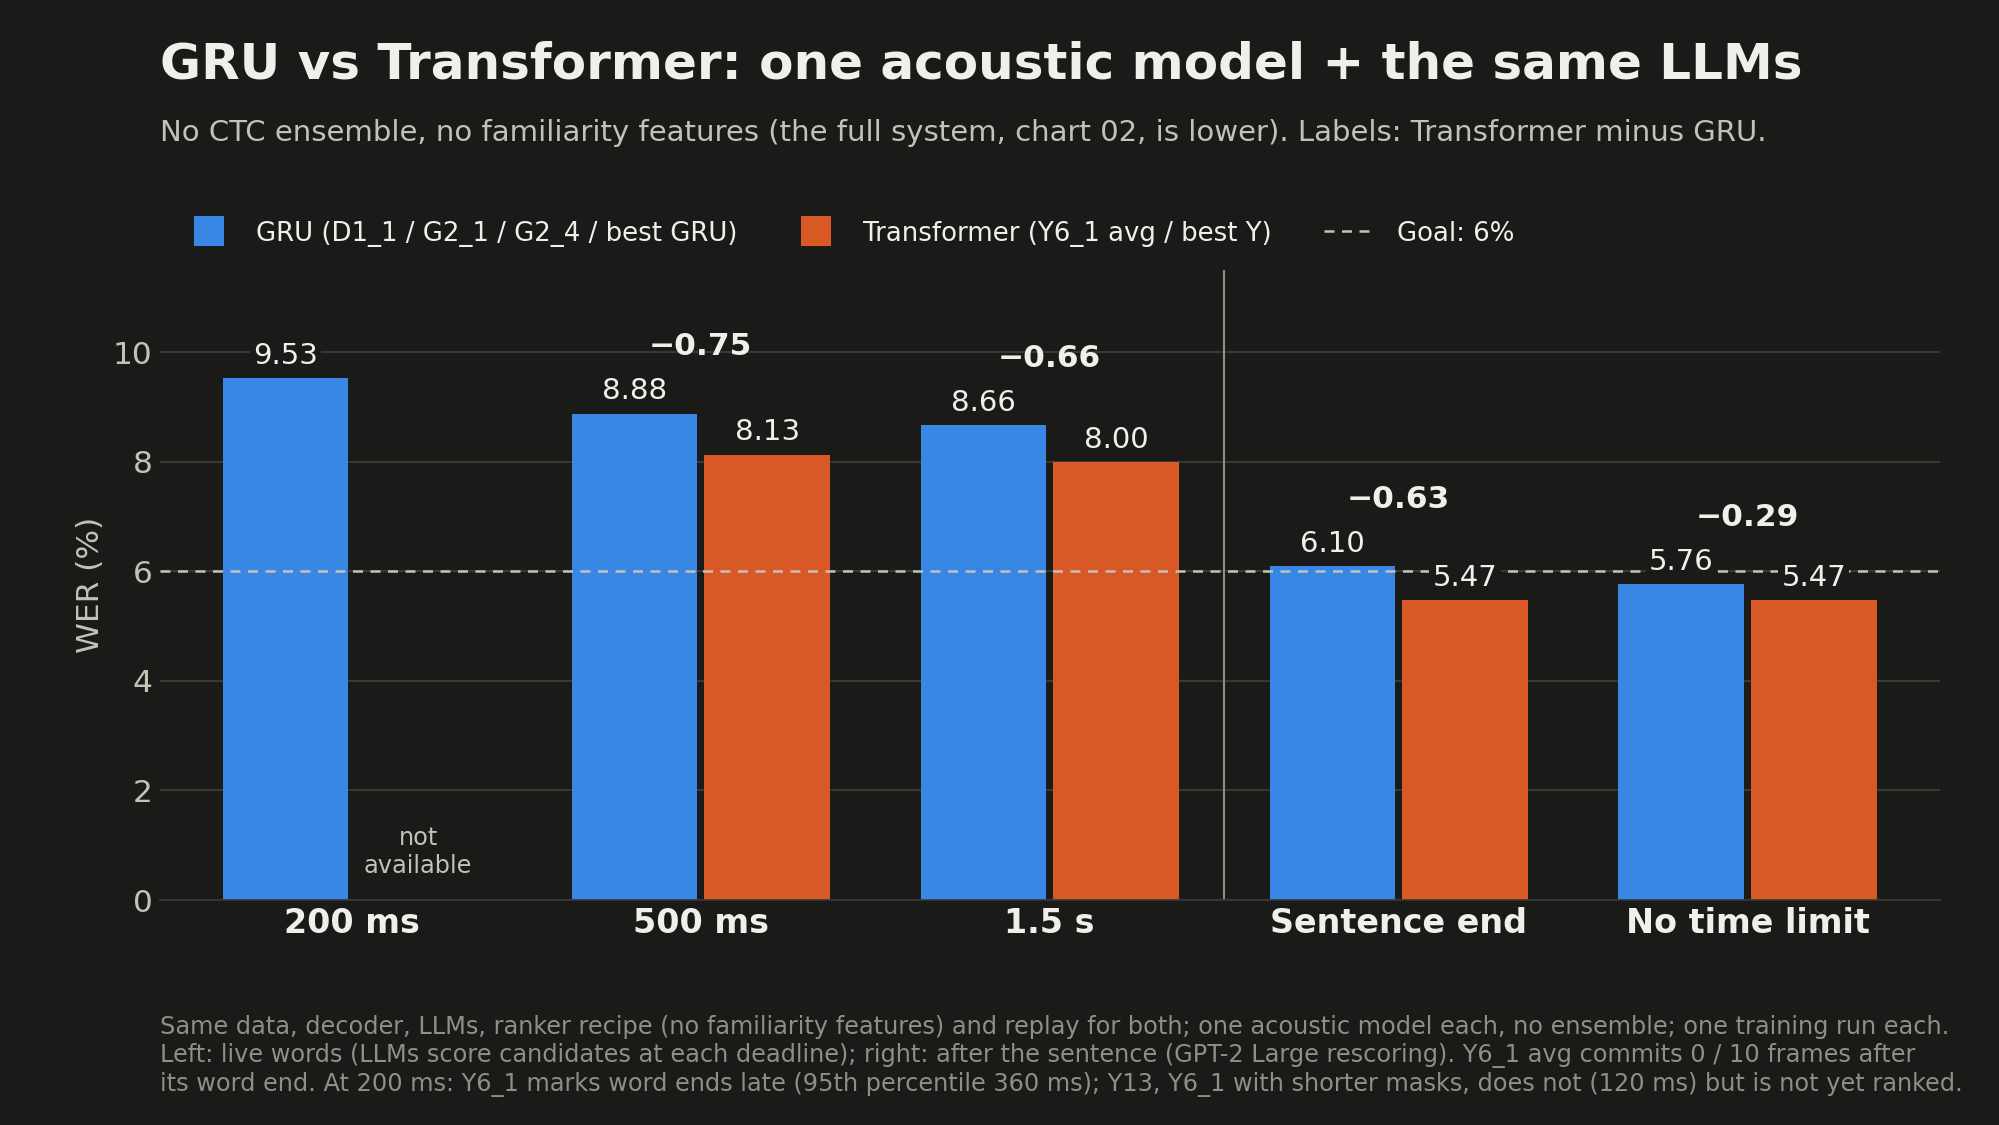
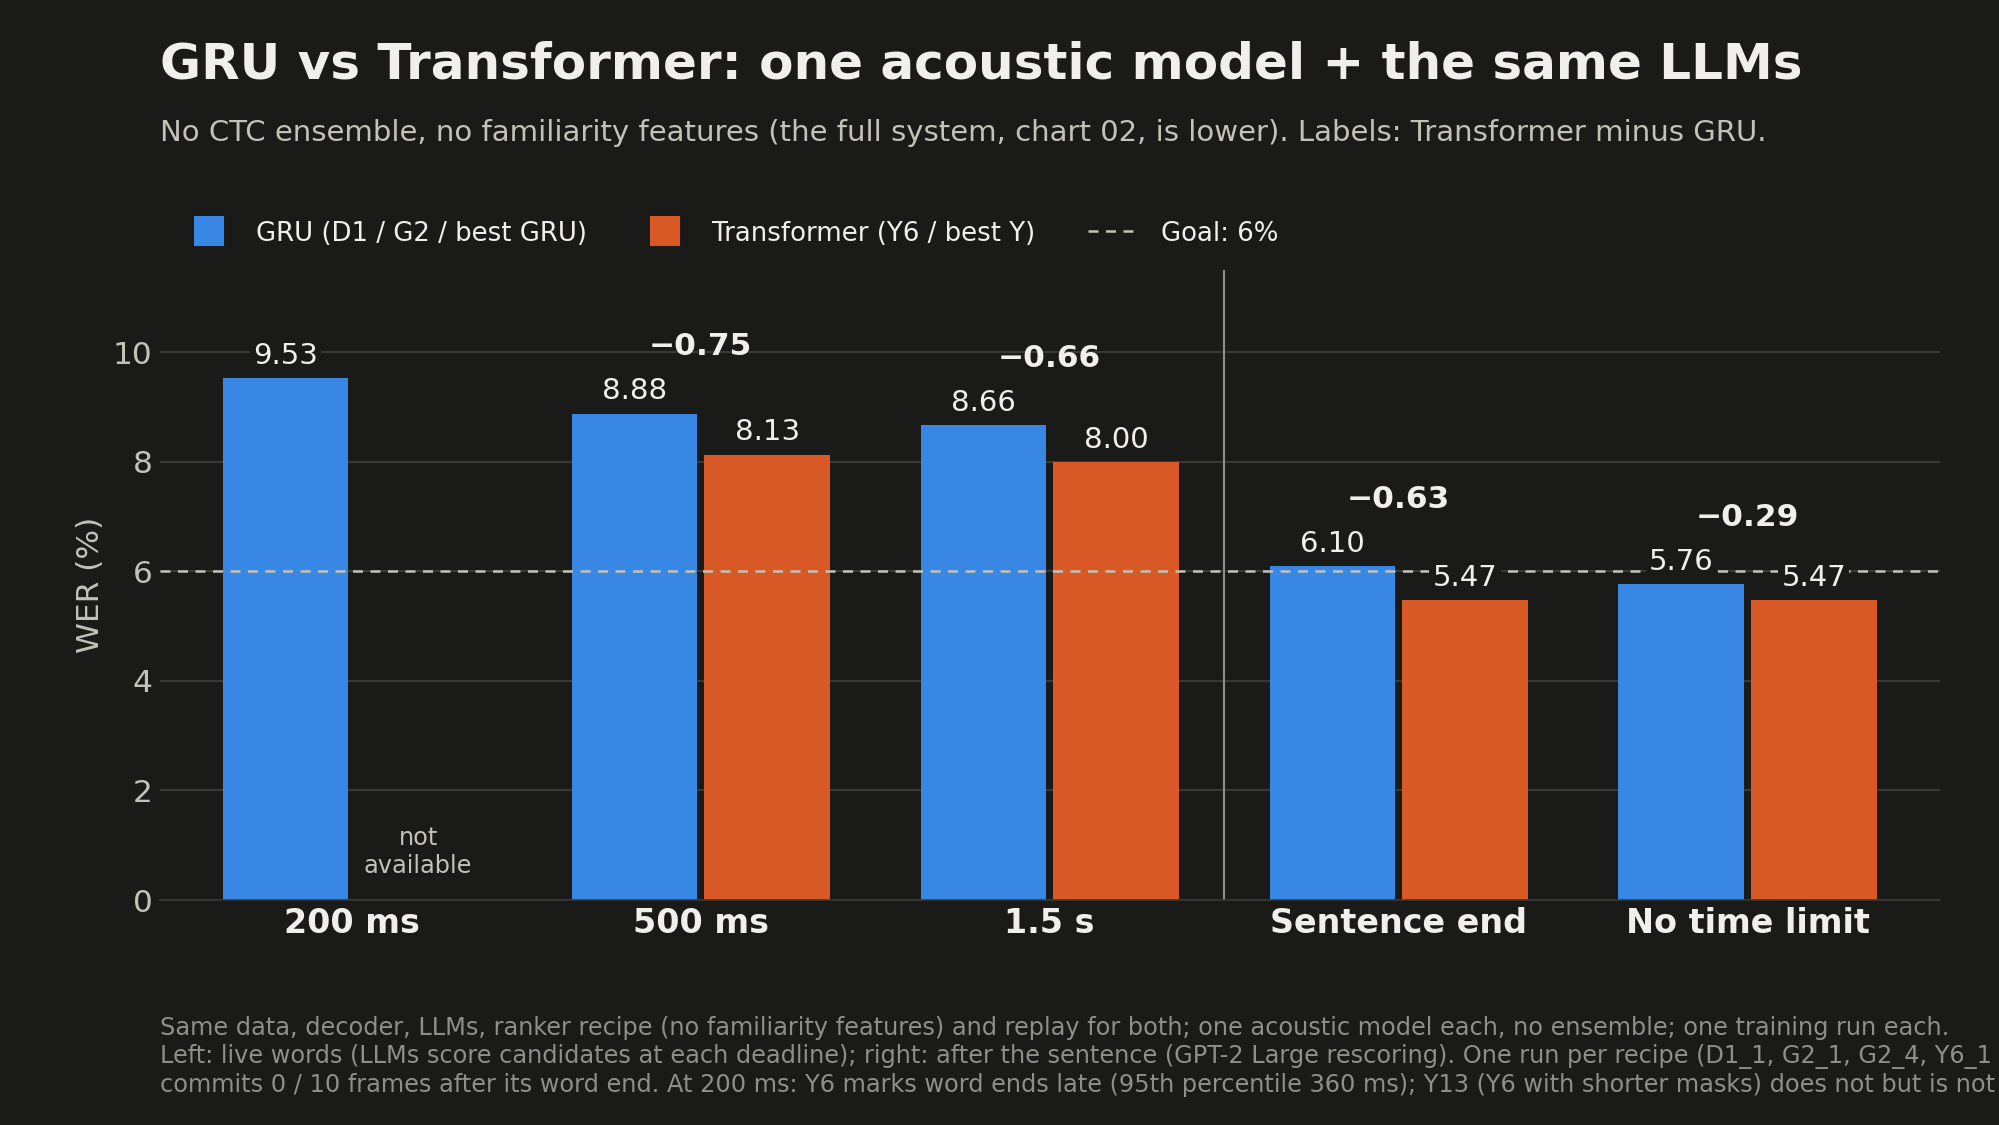
Charts show recipes: means over runs, with the decider run in system-chart footnotes
Acoustic-model comparisons (charts 06-08, 11) plot each recipe as the mean over its runs at the decoder weight common
to all of them, with the range over runs; chart 11 is computed from the runs with one rule throughout. Charts of the
live system name the recipe and give the single decider run (D1_1, G2_1, Y6_1 avg) in the footnote.

Changed region(s): [[0.062, 0.9022, 1.0, 0.9956], [0.1861, 0.1867, 0.6513, 0.2178], [0.6823, 0.1867, 0.7444, 0.2178]]

diff --git a/README.md b/README.md
@@ -36,7 +36,7 @@ its language-model time is charged, but the two decoders have not yet been run s
 its ID is listed in [`harness/registry/MODELS.md`](harness/registry/MODELS.md): a recipe ID such as `Y6` names a
 configuration, a run ID such as `Y6_1` one training of it, and "avg" its averaged weights.
 
-No Transformer has been run through the ranker at 200 ms yet: Y6_1 marks word ends late (95th percentile 360 ms after
+No Transformer has been run through the ranker at 200 ms yet: Y6 marks word ends late (95th percentile 360 ms after
 the word). Y13, the Y6 recipe trained with shorter time masks, marks them within 120 ms but loses about a point of WER.
 
 These are on the project's validation partition of the public B2T '25 data ("val-dev": 1,253 trials, 8,277 words,
@@ -56,7 +56,7 @@ A second track on the Makin lab's ECoG dataset is intended; access and integrati
 
 <picture>
   <source media="(prefers-color-scheme: dark)" srcset="docs/images/dark/01_live_wer_waterfall_500ms.png">
-  <img src="docs/images/light/01_live_wer_waterfall_500ms.png" alt="Waterfall chart of live word error rate at 500 ms: GRU G2_1's own words 11.16%; Transformer Y6_1 instead of the GRU -1.34; two language models choosing the word -1.69; CTC scores of an acoustic-model ensemble -0.86; word familiarity -0.22; result 7.06%.">
+  <img src="docs/images/light/01_live_wer_waterfall_500ms.png" alt="Waterfall chart of live word error rate at 500 ms: GRU G2's own words 11.16%; Transformer Y6 instead of the GRU -1.34; two language models choosing the word -1.69; CTC scores of an acoustic-model ensemble -0.86; word familiarity -0.22; result 7.06%.">
 </picture>
 
 ### GRU or Transformer, one acoustic model each
